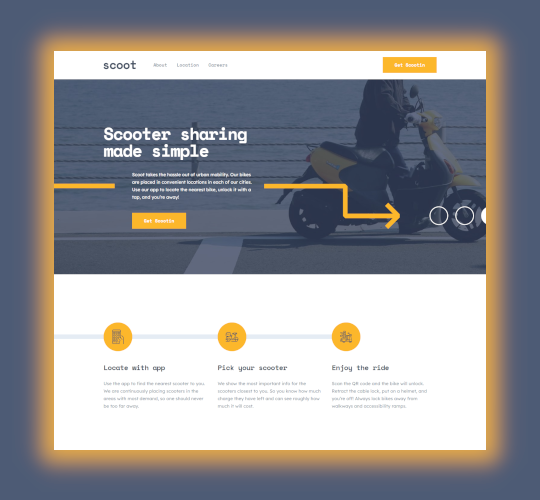
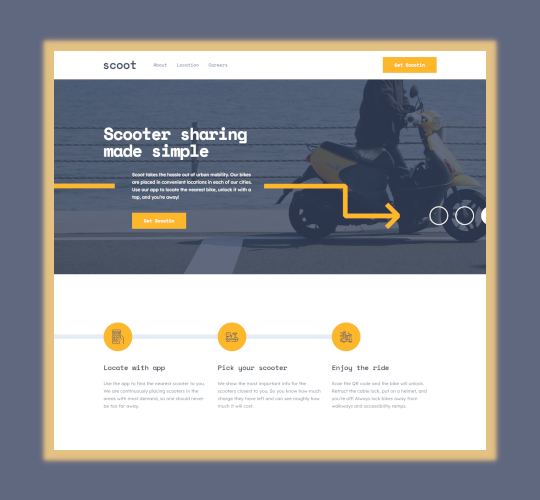
JSX and images for Photosnap.js.

Changed region(s): [[0.0593, 0.06, 0.9481, 0.96]]

diff --git a/src/routes/nested-routes/Photosnap.js b/src/routes/nested-routes/Photosnap.js
@@ -1,0 +1,23 @@
+import Banner from "../../components/banner/Banner";
+import DetailsSection from "../../components/details-section/DetailsSection";
+import DetailsContext from "../../components/details-section/DetailsContext";
+import DetailsBackground from "../../components/details-section/DetailsBackground";
+import DetailsPreview from "../../components/details-section/DetailsPreview";
+
+export default function Photosnap(props) {
+
+  return (
+    <>
+      <Banner title="photosnap" />
+      <DetailsSection>
+        <DetailsContext
+          title="photosnap"
+          text="Lorem ipsum dolor sit amet, consectetur adipiscing elit, sed do eiusmod tempor incididunt ut labore et dolore magna aliqua. Ut enim ad minim veniam, quis nostrud exercitation ullamco laboris nisi ut aliquip ex ea commodo consequat. Duis aute irure dolor in reprehenderit in voluptate velit esse cillum dolore eu fugiat nulla pariatur. Excepteur sint occaecat cupidatat non proident, sunt in culpa qui officia deserunt mollit anim id est laborum."
+          processText="process"
+        />
+        <DetailsBackground text="Lorem ipsum dolor sit amet, consectetur adipiscing elit, sed do eiusmod tempor incididunt ut labore et dolore magna aliqua. Ut enim ad minim veniam, quis nostrud exercitation ullamco laboris nisi ut aliquip ex ea commodo consequat. Duis aute irure dolor in reprehenderit in voluptate velit esse cillum dolore eu fugiat nulla pariatur. Excepteur sint occaecat cupidatat non proident, sunt in culpa qui officia deserunt mollit anim id est laborum." />
+        <DetailsPreview title="photosnap" />
+      </DetailsSection>
+    </>
+  );
+}

diff --git a/src/components/details-section/data.js b/src/components/details-section/data.js
@@ -19,8 +19,8 @@ const data = [
     src: {
       banner: require("../../assets/details/banner/photosnap.png"),
       preview: {
-        // tablet: require("../../assets/details/previews/photosnap-tablet.png"),
-        // mobile: require("../../assets/details/previews/photosnap-mobile.png"),
+        tablet: require("../../assets/details/previews/photosnap-tablet.png"),
+        mobile: require("../../assets/details/previews/photosnap-mobile.png"),
       },
     },
     url: "https://photosnap-website-richieaiello.netlify.app/",
@@ -30,7 +30,7 @@ const data = [
     title: "scoot",
     heading: "Scoot",
     src: {
-      // banner: require("../../assets/details/banner/scoot.png"),
+      banner: require("../../assets/details/banner/scoot.png"),
       preview: {
         // tablet: require("../../assets/details/previews/scoot-tablet.png"),
         // mobile: require("../../assets/details/previews/scoot-mobile.png"),

diff --git a/src/App.js b/src/App.js
@@ -6,6 +6,7 @@ import Home from "./routes/Home";
 import Portfolio from "./routes/Portfolio";
 import ProjectDetails from "./routes/ProjectDetails";
 import Designo from "./routes/nested-routes/Designo";
+import Photosnap from "./routes/nested-routes/Photosnap";
 import Contact from "./routes/Contact";
 import Footer from "./components/footer-section/Footer";
 
@@ -20,7 +21,7 @@ export default function App() {
             <Route path="portfolio" element={<Portfolio />} />
             <Route path="details" element={<ProjectDetails />}>
               <Route path="designo" element={<Designo />} />
-              <Route path="photosnap" element={null} />
+              <Route path="photosnap" element={<Photosnap />} />
               <Route path="scoot" element={null} />
               <Route path="dine" element={null} />
               <Route path="creative" element={null} />

diff --git a/src/routes/nested-routes/Designo.js b/src/routes/nested-routes/Designo.js
@@ -1,4 +1,3 @@
-import data from "../../components/details-section/data";
 import Banner from "../../components/banner/Banner";
 import DetailsSection from "../../components/details-section/DetailsSection";
 import DetailsContext from "../../components/details-section/DetailsContext";
@@ -6,7 +5,6 @@ import DetailsBackground from "../../components/details-section/DetailsBackgroun
 import DetailsPreview from "../../components/details-section/DetailsPreview";
 
 export default function Designo(props) {
-  console.log(data);
 
   return (
     <>
